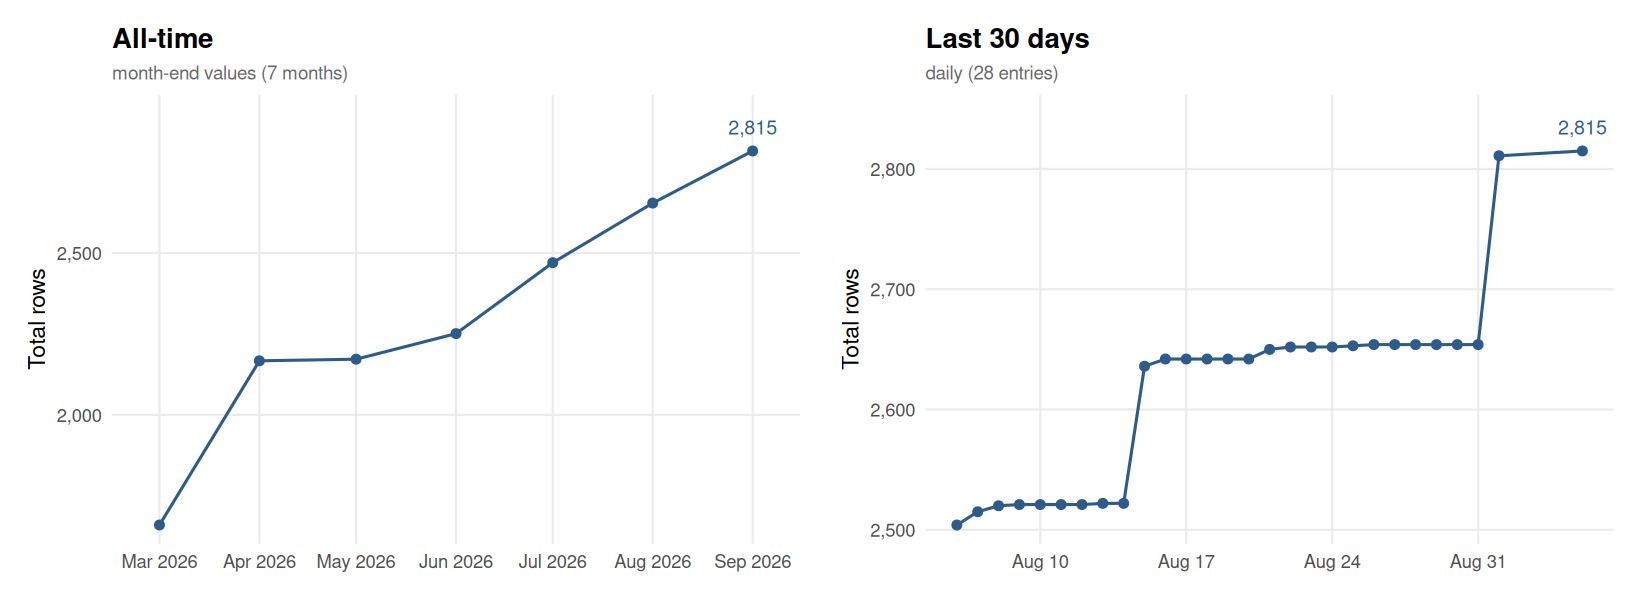
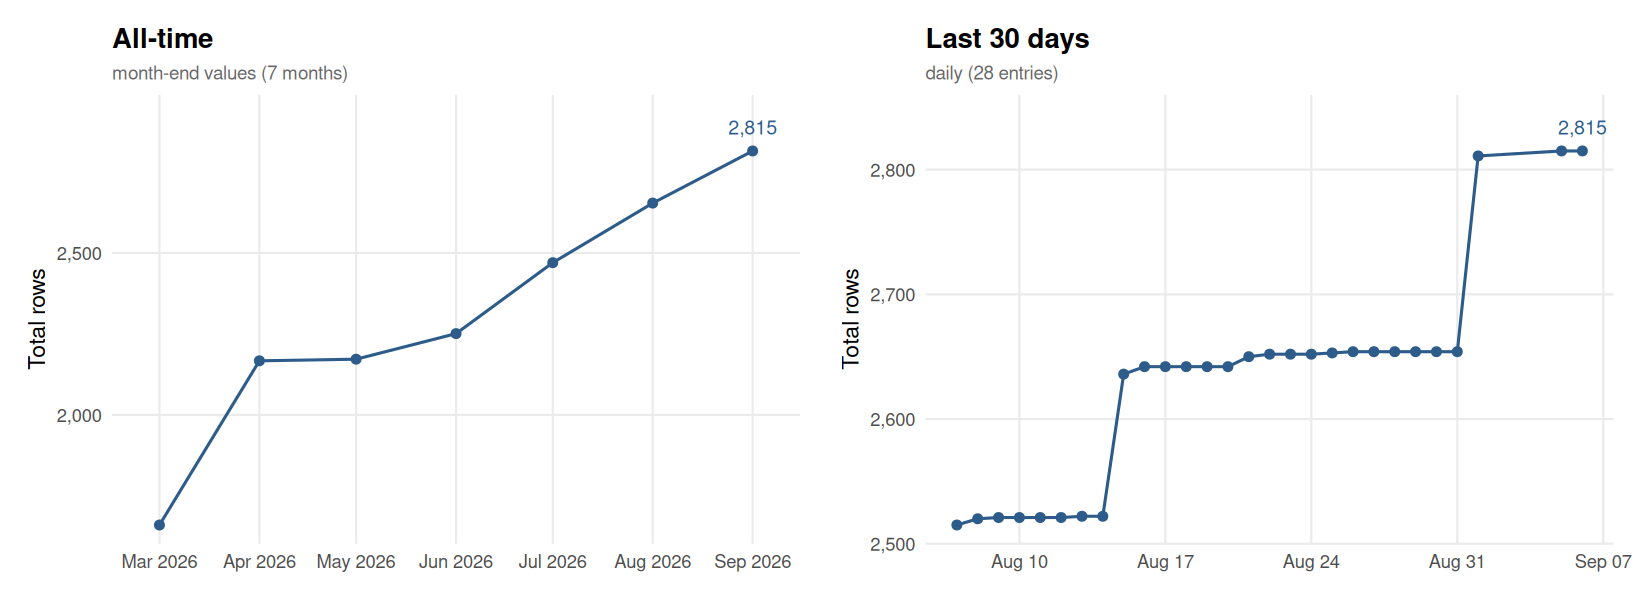
Update flora.csv [automated]

diff --git a/README.md b/README.md
@@ -438,14 +438,15 @@ For API issues:
 This chart is automatically updated after each pipeline run, showing the size of `output/flora.csv` over time.
 
 <!-- FLORA_UPDATE_LOG_START -->
-> **Latest (2026-09-05):** Total = 2,815 | Replications = 2,526 | Reproductions = 289
+> **Latest (2026-09-06):** Total = 2,815 | Replications = 2,526 | Reproductions = 289
 
 ![FLoRA dataset size over time](output/flora_history.png)
 
-<details><summary>Full history (163 entries)</summary>
+<details><summary>Full history (164 entries)</summary>
 
 | Date | Total | Replications | Reproductions |
 |------|------:|-------------:|--------------:|
+| 2026-09-06 | 2815 | 2526 | 289 |
 | 2026-09-05 | 2815 | 2526 | 289 |
 | 2026-09-01 | 2811 | 2522 | 289 |
 | 2026-08-31 | 2654 | 2523 | 131 |
